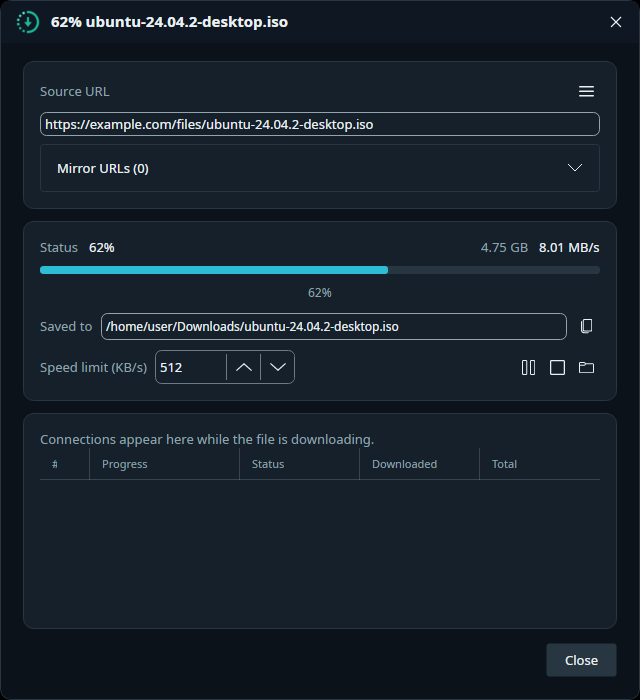
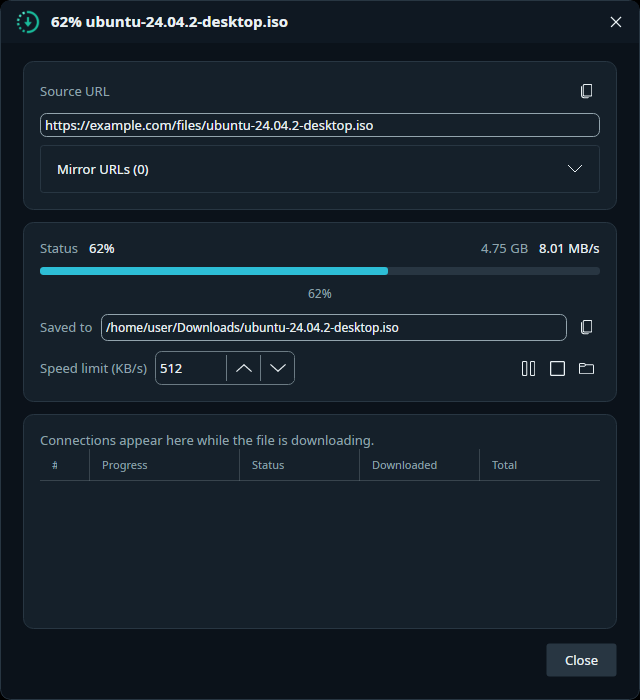
feat(details): Source URL copy button matches the 'Saved to' copy UX
- Section 1 (Source URL) copy now uses the CopyRegular→Checkmark + 'URL copied!' tooltip
  pattern (UrlCopied/CopyUrlTooltip/CopyUrlAsync), same as the Saved-to path copy
- Action_UrlCopied key in all 16 locales; regenerated details screenshot

diff --git a/src/Downloader.Desktop/ViewModels/DownloadDetailsViewModel.cs b/src/Downloader.Desktop/ViewModels/DownloadDetailsViewModel.cs
@@ -40,7 +40,7 @@ public class DownloadDetailsViewModel : ViewModelBase
     {
         Item = item;
 
-        CopyUrlCommand = ReactiveCommand.CreateFromTask(() => DialogHelper.CopyTextAsync(Item?.Url));
+        CopyUrlCommand = ReactiveCommand.CreateFromTask(CopyUrlAsync);
         CopyPathCommand = ReactiveCommand.CreateFromTask(CopyPathAsync);
         CopyErrorCommand = ReactiveCommand.CreateFromTask(CopyErrorAsync);
         AddMirrorCommand = ReactiveCommand.Create(() => AddMirror(string.Empty));
@@ -133,6 +133,41 @@ public class DownloadDetailsViewModel : ViewModelBase
 
         PathCopied = false;
         this.RaisePropertyChanged(nameof(CopyPathTooltip));
+    }
+
+    // Transient "copied" feedback for the copy-URL button (same UX as the copy-path button).
+    private bool _urlCopied;
+    private int _urlCopyToken;
+
+    /// <summary>True for a short moment after the source URL is copied (drives the checkmark icon).</summary>
+    public bool UrlCopied
+    {
+        get => _urlCopied;
+        private set => this.RaiseAndSetIfChanged(ref _urlCopied, value);
+    }
+
+    /// <summary>Tooltip for the copy-URL button ("Copy URL" → "URL copied!" right after a copy).</summary>
+    public string CopyUrlTooltip => _urlCopied ? L("Action_UrlCopied") : L("Action_CopyUrl");
+
+    /// <summary>Copies the source URL to the clipboard and briefly confirms it on the button.</summary>
+    private async Task CopyUrlAsync()
+    {
+        var url = Item?.Url;
+        if (string.IsNullOrWhiteSpace(url))
+            return;
+
+        await DialogHelper.CopyTextAsync(url);
+
+        UrlCopied = true;
+        this.RaisePropertyChanged(nameof(CopyUrlTooltip));
+
+        var token = ++_urlCopyToken;
+        await Task.Delay(2000);
+        if (token != _urlCopyToken)
+            return;
+
+        UrlCopied = false;
+        this.RaisePropertyChanged(nameof(CopyUrlTooltip));
     }
 
     // Transient "copied" feedback for the copy-error button (independent token from the path copy).
